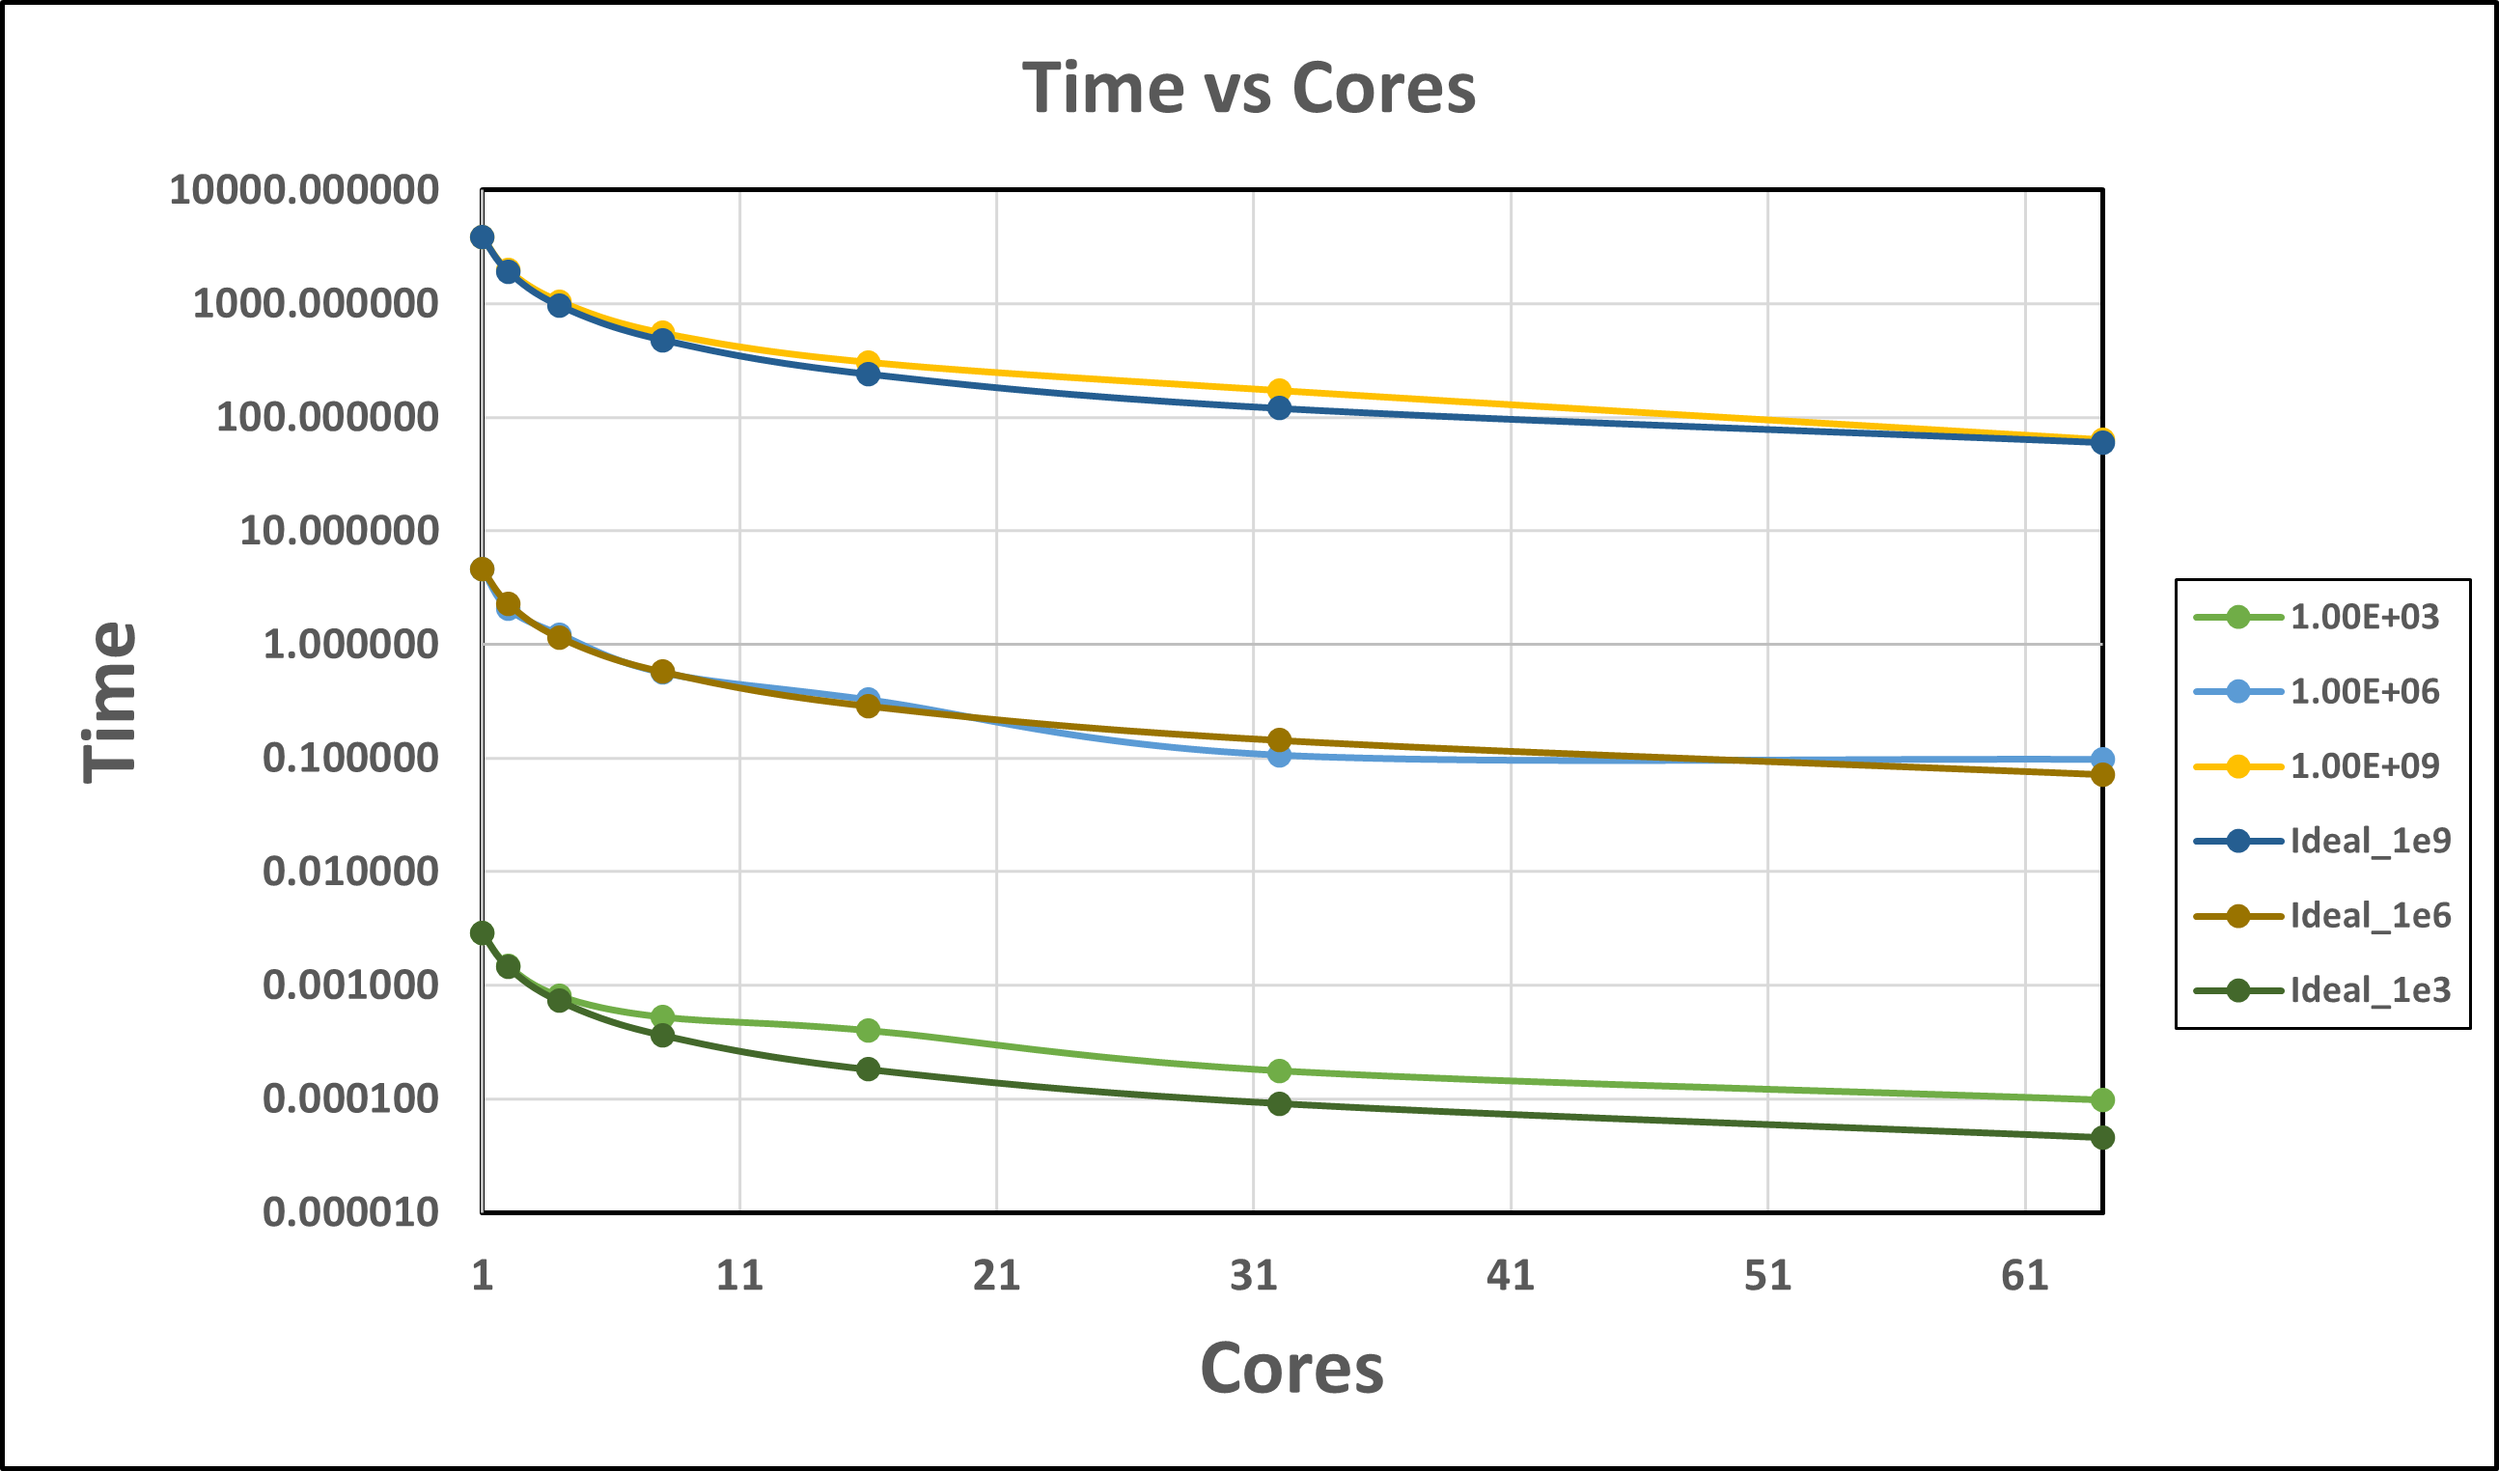
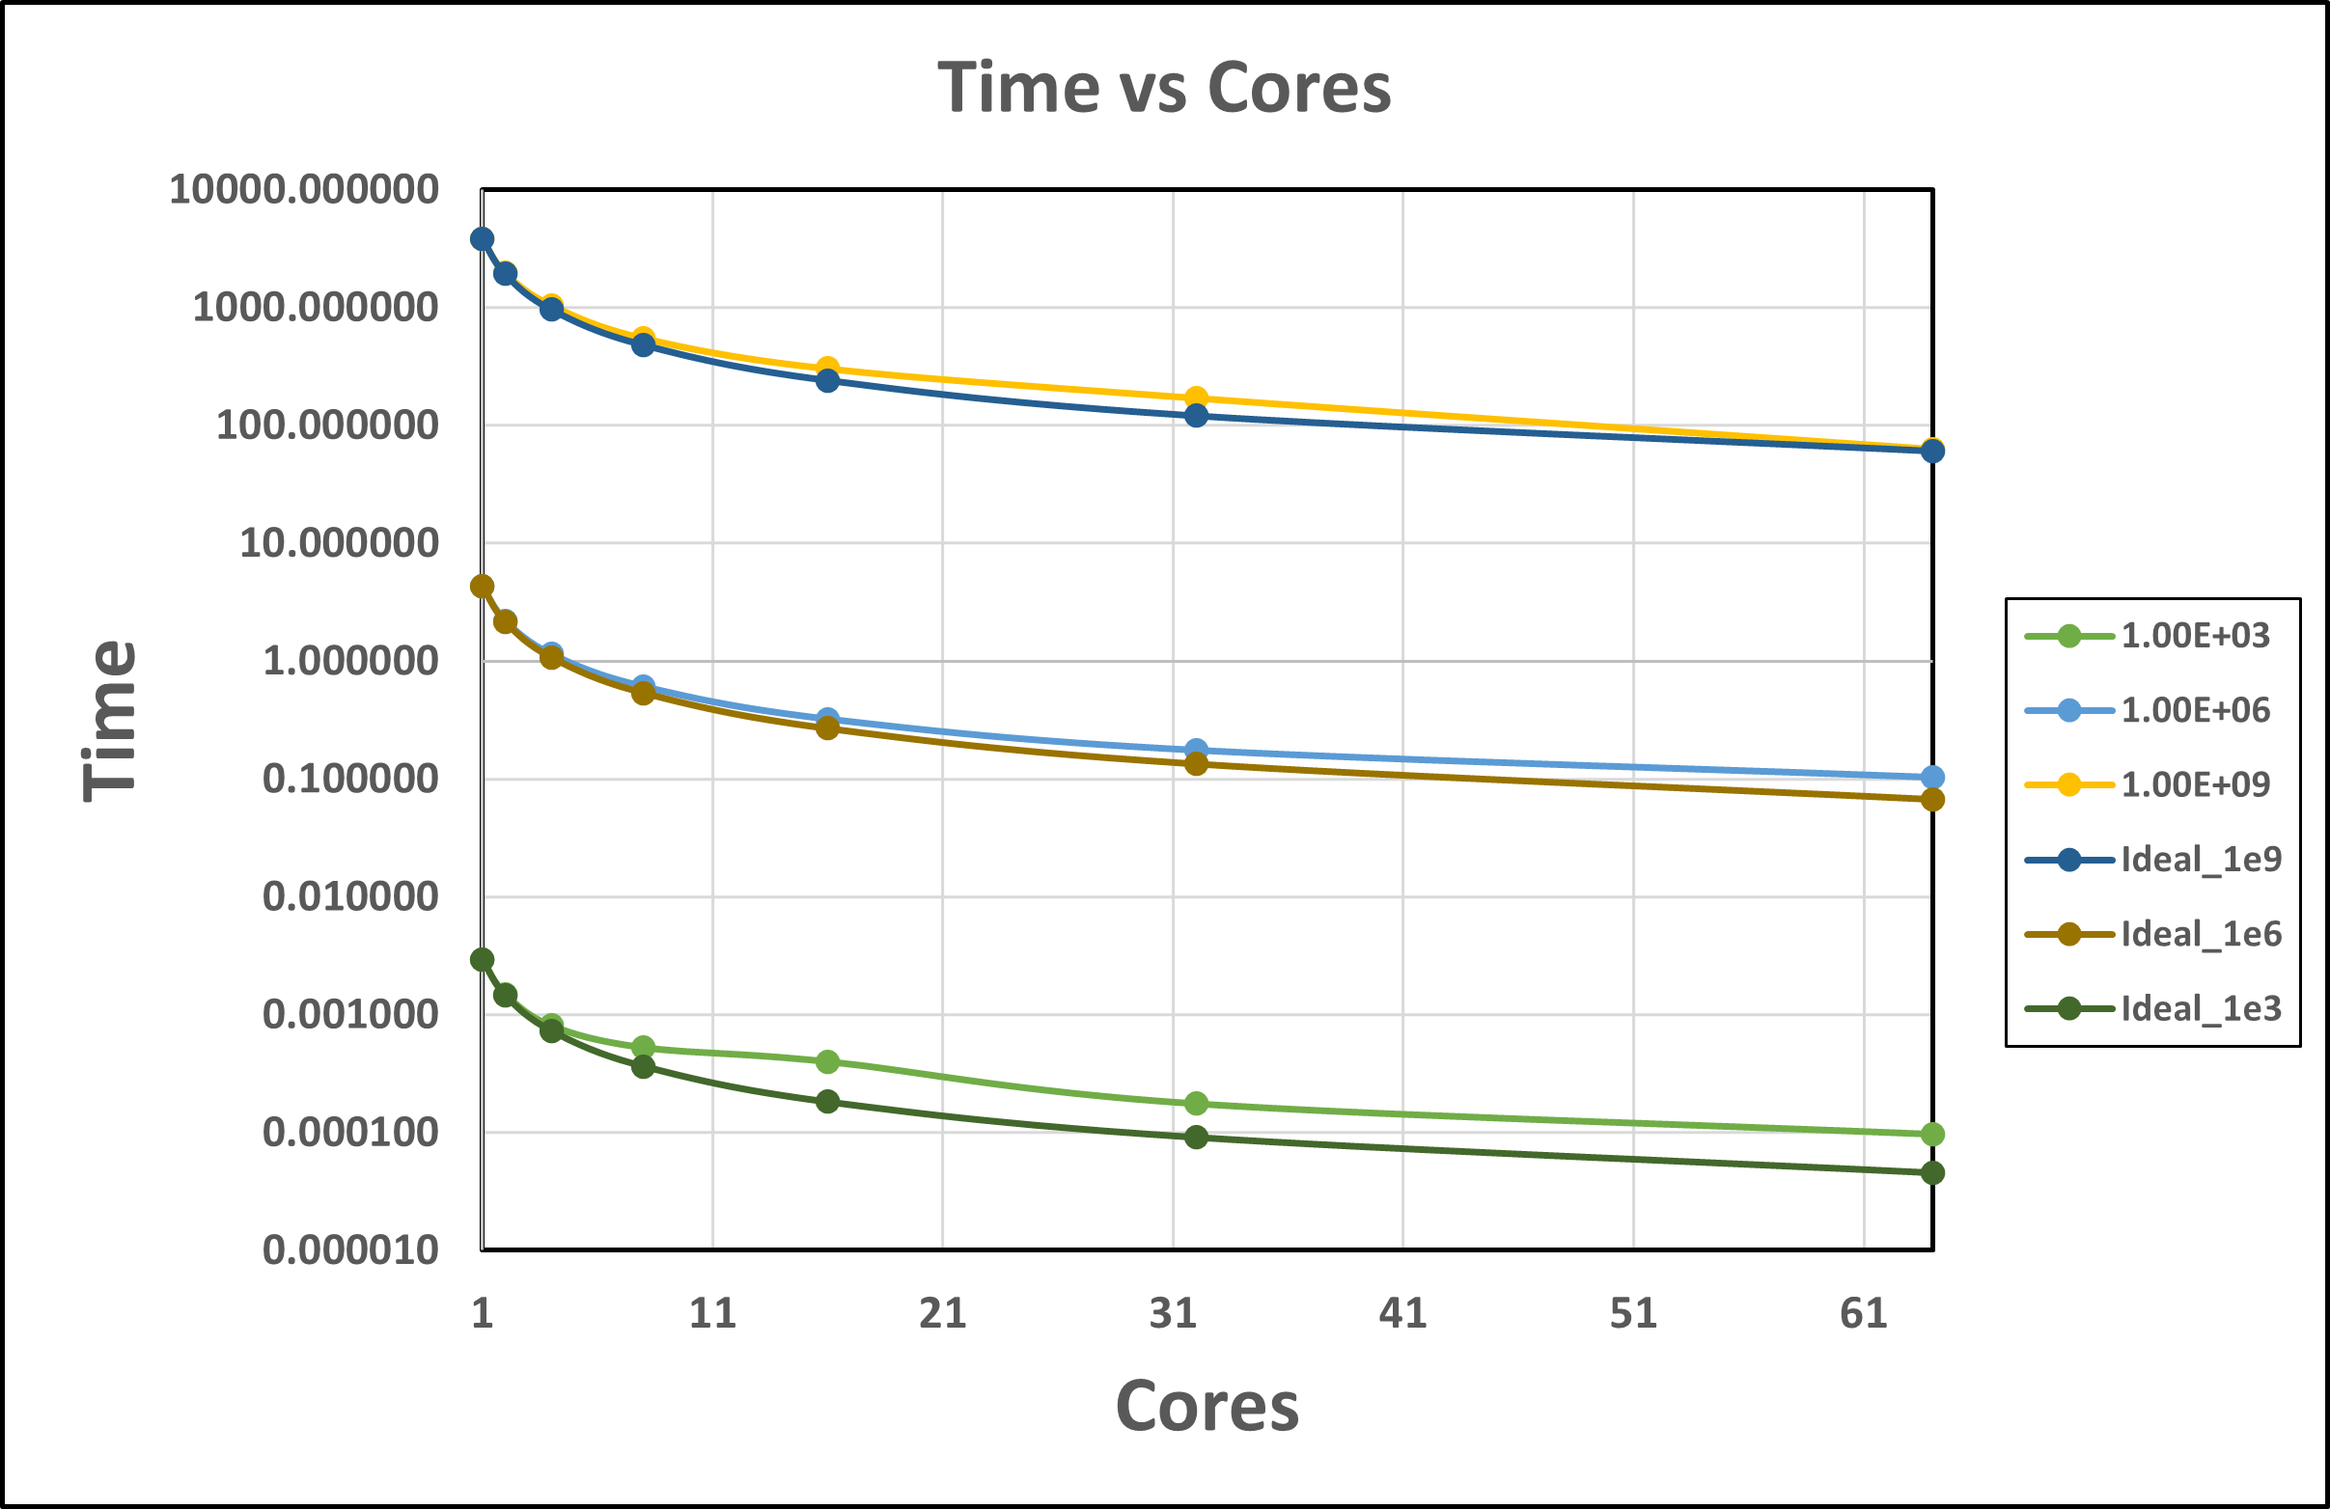
Adding explanations to Q.4

diff --git a/Project2.md b/Project2.md
@@ -164,7 +164,7 @@ For size 4, max elapsed time: 0.007189.
 Since the ROUNDS are being divided further and further in each rank while each rank runs parallel, the run time is decreasing with increase in the number of processes. However, this decrease is not linear.
 
 ## 4.4 Solution
-Number of darts and ranks were changed while keeping track of pi and runtimes. 
+Number of darts and ranks were changed while keeping track of pi and runtimes. All simulations were run thrice and the timings were averaged.
 
 ### Computed values of pi
 |    | 1.00E+03    | 1.00E+06    | 1.00E+09    |
@@ -180,22 +180,52 @@ Number of darts and ranks were changed while keeping track of pi and runtimes.
 ### Runtimes for each
 |    | 1.00E+03 | 1.00E+06 | 1.00E+09    |
 | -- | -------- | -------- | ----------- |
-| 1  | 0.002915 | 4.594947 | 3844.827927 |
-| 2  | 0.001496 | 2.070552 | 1975.497270 |
-| 4  | 0.000806 | 1.230456 | 1048.335238 |
-| 8  | 0.000526 | 0.565957 | 551.328802  |
-| 16 | 0.000400 | 0.327240 | 304.160492  |
-| 32 | 0.000176 | 0.106617 | 171.271397  |
-| 64 | 0.000097 | 0.097750 | 63.154963   |
+| 1  | 0.002915 | 4.288132 | 3844.827927 |
+| 2  | 0.001496 | 2.191790 | 1975.497270 |
+| 4  | 0.000806 | 1.142942 | 1048.335238 |
+| 8  | 0.000526 | 0.606849 | 551.328802  |
+| 16 | 0.000400 | 0.321543 | 304.160492  |
+| 32 | 0.000176 | 0.174851 | 171.271397  |
+| 64 | 0.000097 | 0.102870 | 63.154963   |
 
 ## 4.5 Solution
 See figure below for the log-log scaled plot for percentage errors vs DARTS.
-![\label{errors}](error.png)
+<img src="error.png" alt="errors" width="50%"/>
+
+The rate of convergence in a log-log plot corresponds to the slope of the curve, so we expect negative slopes of these curves. 
+
+For each processor core, the convergence rate is negative, as expected, although not first-order ($-0.5$). The convergence rate for all cores appears similar except for the case of $64$ cores.
+
+The error or convergence should ideally not vary with the number of processors, however, we see slight changes in the our convergence rates / errors. This can be due to various reasons but the most likely is the parallelization strategy used. For each number of processors, we are dividing our rounds using 
+
+count = ROUNDS / numtasks + ((ROUNDS % numtasks) > rank)
+
+which does not always evenly divide our fixed $100$ rounds to various cores, especially in the case of $64$ cores. The second reason might be the unweighted averaging of all results from each core instead of a weighted average based on the varying number of rounds asked of each core. 
 
 ## 4.6 Solution
 See figure below for the plot for time vs cores.
-![\label{time}](time_normal.png)
+<img src="time_normal.png" alt="time" width="50%"/>
 
 See figure below for the semilog-plot for time vs cores along with the ideal line.
-![\label{time_log}](time_log_ideal.png)
+<img src="time_log_ideal.png" alt="time_log" width="50%"/>
 
+The parallel scaling efficiency can be calculated as:
+$E = \frac{T_{1}}{P*T_{P}$
+where $T_1$ is the time taken by one processor and $T_P$ is the time taken by $P$ processors. 
+
+The following table shows the efficiencies for each case:
+
+|    | 1.00E+03 | 1.00E+06 | 1.00E+09 |
+| -- | -------- | -------- | -------- |
+| 1  | 1.000000 | 1.000000 | 1.000000 |
+| 2  | 0.974265 | 0.978226 | 0.973129 |
+| 4  | 0.904156 | 0.937959 | 0.916889 |
+| 8  | 0.692728 | 0.883278 | 0.871718 |
+| 16 | 0.455469 | 0.833507 | 0.790049 |
+| 32 | 0.517578 | 0.766390 | 0.701523 |
+| 64 | 0.469555 | 0.651328 | 0.951239 |
+
+The figure below can be plotted using the data above
+<img src="efficiency.png" alt="time" width="50%"/>
+
+The efficiency is lower than $1$ for all number of cores. The parallel performance does vary somewhat with dart count. This variation may be due to the same reason in 4.5 i.e. the rounds not being divided equally between the cores for different total cores. 
